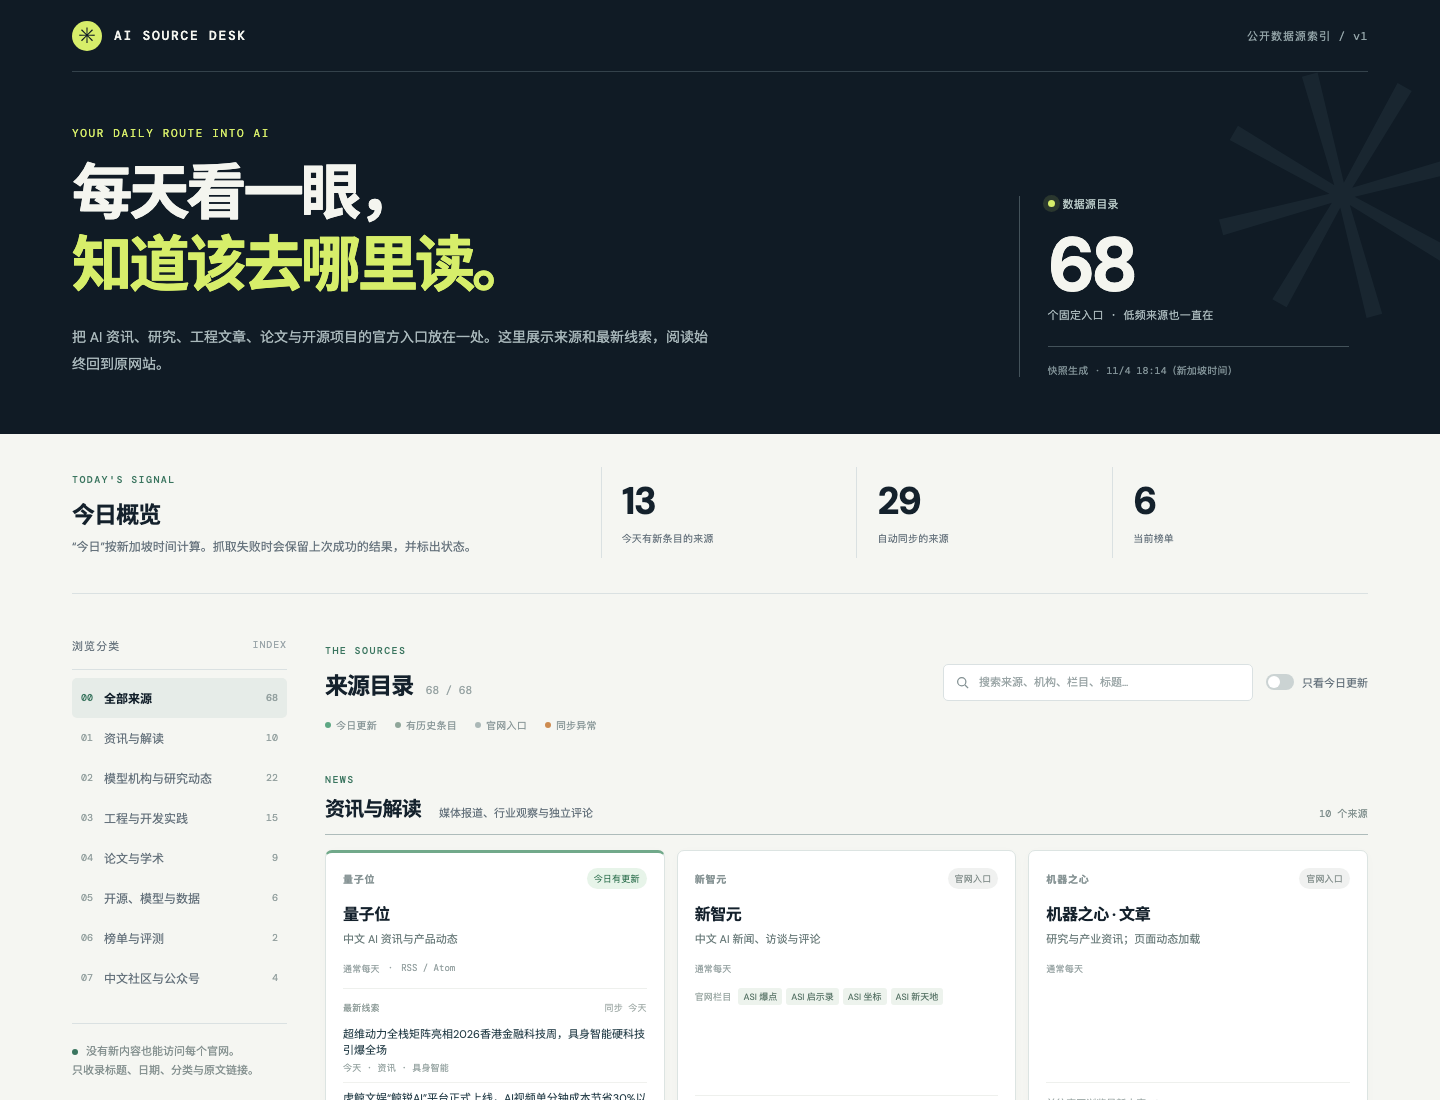
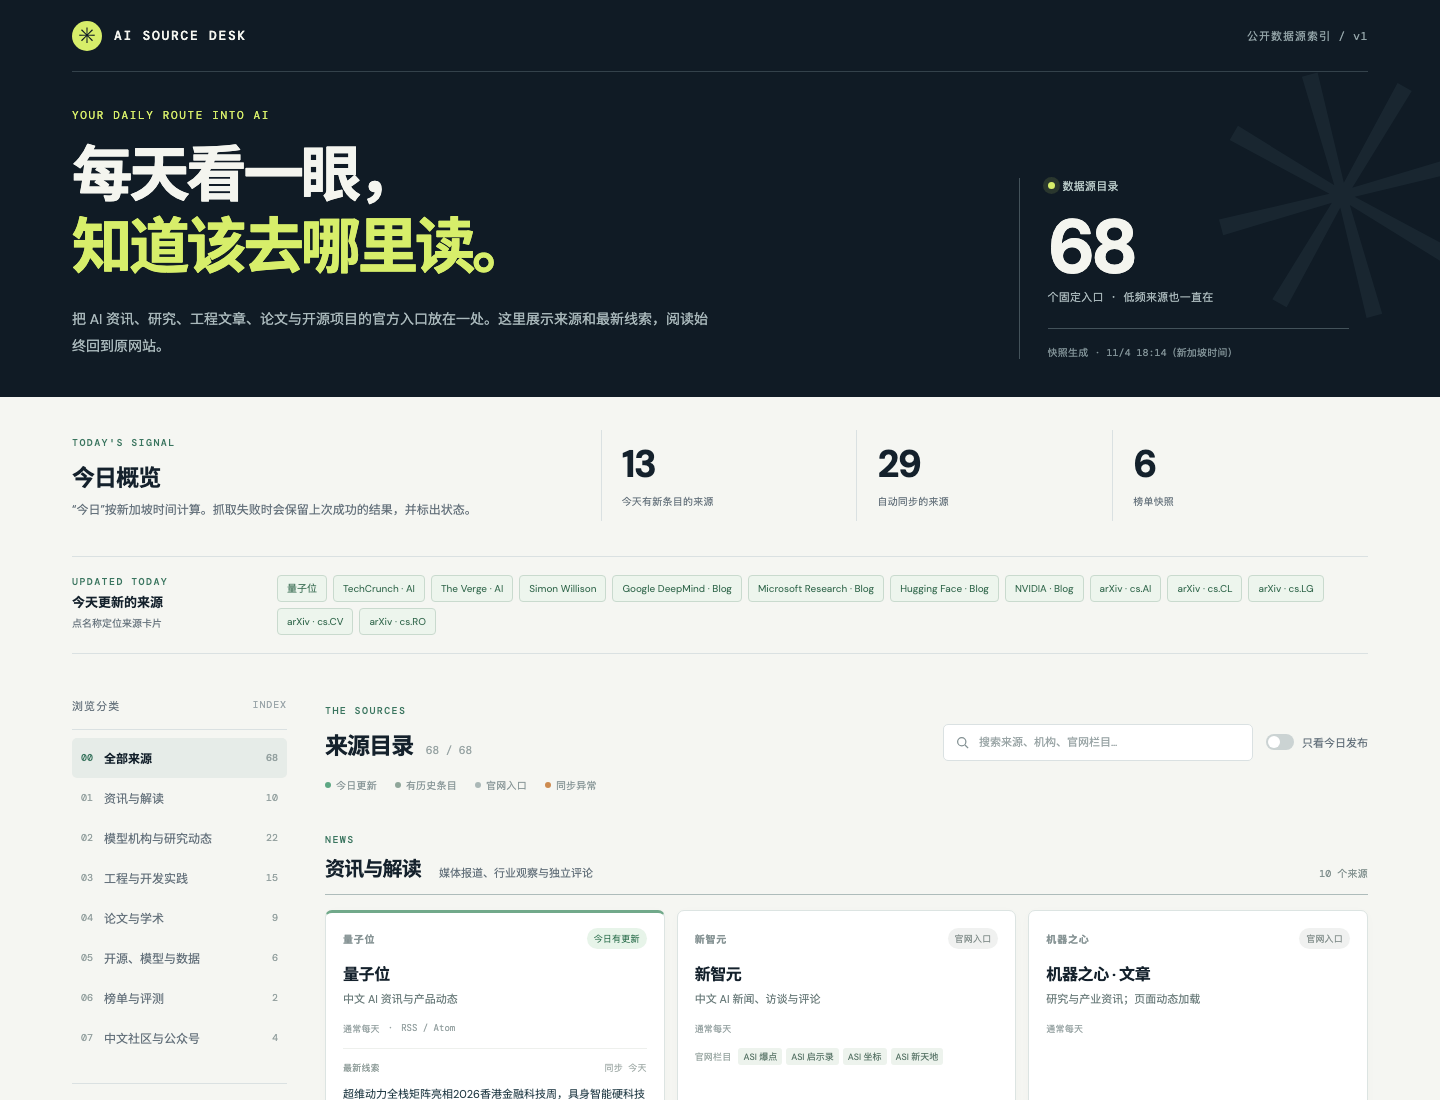
fix: improve daily source navigation and sync clarity

diff --git a/site/assets/app.js b/site/assets/app.js
@@ -25,17 +25,20 @@ const link = (text, href, className = '') => {
 };
 const resultFor = (source) => state.snapshot?.results?.[source.id] || { status: source.mode === 'link' ? 'directory' : 'pending', items: [] };
 const isRanking = (source) => ['github_trending', 'hf_trending', 'papers_trending', 'aa_leaderboard'].includes(source.mode);
+const recentlySynced = (result) => Boolean(result.lastSuccessAt && Date.now() - Date.parse(result.lastSuccessAt) <= 36 * 60 * 60 * 1000);
 const updatedToday = (source) => !isRanking(source) && resultFor(source).status === 'ok' && resultFor(source).items.some((item) => dateKey(item.publishedAt) === today);
 const cadenceLabel = { daily: '通常每天', weekly: '通常每周', monthly: '不定期' };
 
 function sourceCard(source) {
   const result = resultFor(source);
   const fresh = updatedToday(source);
+  const stale = result.status === 'ok' && !recentlySynced(result);
   const card = el('article', `source-card ${fresh ? 'is-fresh' : ''}`);
+  card.id = `source-${source.id}`;
   const top = el('div', 'card-top');
   top.append(el('span', 'org', source.org));
-  const status = el('span', `status ${result.status === 'error' ? 'error' : fresh ? 'fresh' : result.status === 'ok' ? 'recent' : 'manual'}`,
-    result.status === 'error' ? '同步异常' : fresh ? '今日有更新' : result.status === 'ok' ? (isRanking(source) ? '榜单快照' : '有最新条目') : source.mode === 'link' ? '官网入口' : '等待同步');
+  const status = el('span', `status ${result.status === 'error' ? 'error' : stale ? 'stale' : fresh ? 'fresh' : result.status === 'ok' ? 'recent' : 'manual'}`,
+    result.status === 'error' ? '同步异常' : fresh ? '今日有更新' : result.status === 'ok' ? (isRanking(source) ? (recentlySynced(result) ? '当前榜单' : '旧榜单快照') : '有最新条目') : source.mode === 'link' ? '官网入口' : '等待同步');
   top.append(status); card.append(top);
   const title = el('h4'); title.append(link(source.name, source.url)); card.append(title);
   card.append(el('p', 'note', source.note));
@@ -48,7 +51,7 @@ function sourceCard(source) {
     card.append(tags);
   }
   if (result.items?.length) {
-    const heading = el('div', 'item-heading'); heading.append(el('span', '', isRanking(source) ? '当前排名' : '最新线索'));
+    const heading = el('div', 'item-heading'); heading.append(el('span', '', isRanking(source) ? (recentlySynced(result) ? '当前排名' : '上次排名') : '最新线索'));
     if (result.lastSuccessAt) heading.append(el('span', 'item-time', `同步 ${shortDate(result.lastSuccessAt)}`));
     card.append(heading);
     const makeItem = (item, index) => {
@@ -85,7 +88,7 @@ function matches(source) {
   if (state.activeGroup !== 'all' && source.group !== state.activeGroup) return false;
   if (state.todayOnly && !updatedToday(source)) return false;
   if (!state.query) return true;
-  const text = [source.name, source.org, source.note, ...(source.sections || []), ...resultFor(source).items.map((x) => x.title)].join(' ').toLocaleLowerCase();
+  const text = [source.name, source.org, source.note, ...(source.sections || [])].join(' ').toLocaleLowerCase();
   return text.includes(state.query);
 }
 
@@ -101,6 +104,24 @@ function renderNav() {
   });
 }
 
+function renderTodayStrip(sources) {
+  const wrap = $('#todayLinks'); wrap.replaceChildren();
+  const fresh = sources.filter(updatedToday);
+  if (!fresh.length) { wrap.append(el('span', 'today-empty', '今天尚未在已同步来源中发现新条目，所有官网入口仍可访问。')); return; }
+  fresh.forEach((source) => {
+    const button = el('button', 'today-link', source.name);
+    button.type = 'button';
+    button.title = resultFor(source).items.find((item) => dateKey(item.publishedAt) === today)?.title || source.name;
+    button.addEventListener('click', () => {
+      state.activeGroup = 'all'; state.todayOnly = false; state.query = '';
+      $('#todayOnly').checked = false; $('#search').value = '';
+      render();
+      document.getElementById(`source-${source.id}`)?.scrollIntoView({ behavior: 'smooth', block: 'center' });
+    });
+    wrap.append(button);
+  });
+}
+
 function render() {
   if (!state.catalog) return;
   renderNav();
@@ -109,6 +130,10 @@ function render() {
   $('#trackedCount').textContent = sources.filter((x) => x.mode !== 'link').length;
   $('#rankingCount').textContent = sources.filter(isRanking).length;
   $('#updatedCount').textContent = sources.filter(updatedToday).length;
+  renderTodayStrip(sources);
+  const unhealthy = sources.filter((source) => source.mode !== 'link' && (resultFor(source).status !== 'ok' || !recentlySynced(resultFor(source))));
+  const notice = $('#syncNotice'); notice.hidden = unhealthy.length === 0;
+  if (unhealthy.length) notice.textContent = `${unhealthy.length} 个自动来源近期未成功同步。页面保留上次结果及官网入口，最新内容请以官网为准。`;
   const visible = sources.filter(matches); $('#visibleCount').textContent = `${visible.length} / ${sources.length}`;
   $('#syncTime').textContent = state.snapshot?.generatedAt ? `快照生成 · ${new Intl.DateTimeFormat('zh-CN', { timeZone: tz, month: 'numeric', day: 'numeric', hour: '2-digit', minute: '2-digit' }).format(new Date(state.snapshot.generatedAt))}（新加坡时间）` : '等候首次自动同步';
   const container = $('#sections'); container.replaceChildren();
@@ -121,7 +146,7 @@ function render() {
     section.append(heading);
     const grid = el('div', 'card-grid'); entries.forEach((source) => grid.append(sourceCard(source))); section.append(grid); container.append(section);
   }
-  if (!visible.length) container.append(el('div', 'empty', '没有匹配的来源。清除搜索或关闭“只看今日更新”即可浏览全部入口。'));
+  if (!visible.length) container.append(el('div', 'empty', '没有匹配的来源。清除搜索或关闭“只看今日发布”即可浏览全部入口。'));
 }
 
 async function init() {

diff --git a/site/index.html b/site/index.html
@@ -28,13 +28,16 @@
       <div class="summary-lead"><span class="section-kicker">TODAY'S SIGNAL</span><h2>今日概览</h2><p>“今日”按新加坡时间计算。抓取失败时会保留上次成功的结果，并标出状态。</p></div>
       <div class="metric"><strong id="updatedCount">—</strong><span>今天有新条目的来源</span></div>
       <div class="metric"><strong id="trackedCount">—</strong><span>自动同步的来源</span></div>
-      <div class="metric"><strong id="rankingCount">—</strong><span>当前榜单</span></div>
+      <div class="metric"><strong id="rankingCount">—</strong><span>榜单快照</span></div>
     </section>
+
+    <section class="today-strip" aria-label="今日更新来源"><div class="today-strip-head"><span class="section-kicker">UPDATED TODAY</span><strong>今天更新的来源</strong><span>点名称定位来源卡片</span></div><div class="today-links" id="todayLinks"></div></section>
+    <div class="sync-notice" id="syncNotice" role="status" hidden></div>
 
     <div class="workspace">
       <aside class="sidebar" aria-label="分类导航"><div class="sidebar-title">浏览分类 <span>INDEX</span></div><nav id="groupNav"></nav><div class="sidebar-note"><span class="tiny-dot"></span> 没有新内容也能访问每个官网。<br>只收录标题、日期、分类与原文链接。</div></aside>
       <div class="main-panel">
-        <div class="toolbar"><div class="toolbar-title"><span class="section-kicker">THE SOURCES</span><h2>来源目录 <span id="visibleCount"></span></h2></div><div class="controls"><label class="search-wrap"><span class="sr-only">搜索来源</span><svg viewBox="0 0 24 24" aria-hidden="true"><circle cx="10.8" cy="10.8" r="6.6"></circle><path d="m16 16 5 5"></path></svg><input id="search" type="search" placeholder="搜索来源、机构、栏目、标题…"></label><label class="today-switch"><input id="todayOnly" type="checkbox"><span class="switch-track"></span>只看今日更新</label></div></div>
+        <div class="toolbar"><div class="toolbar-title"><span class="section-kicker">THE SOURCES</span><h2>来源目录 <span id="visibleCount"></span></h2></div><div class="controls"><label class="search-wrap"><span class="sr-only">搜索来源</span><svg viewBox="0 0 24 24" aria-hidden="true"><circle cx="10.8" cy="10.8" r="6.6"></circle><path d="m16 16 5 5"></path></svg><input id="search" type="search" placeholder="搜索来源、机构、官网栏目…"></label><label class="today-switch"><input id="todayOnly" type="checkbox"><span class="switch-track"></span>只看今日发布</label></div></div>
         <div class="legend"><span><i class="dot fresh"></i> 今日更新</span><span><i class="dot recent"></i> 有历史条目</span><span><i class="dot manual"></i> 官网入口</span><span><i class="dot error"></i> 同步异常</span></div>
         <div id="sections" aria-live="polite"><div class="loading">正在整理数据源…</div></div>
       </div>

diff --git a/site/assets/style.css b/site/assets/style.css
@@ -13,3 +13,7 @@ footer{background:#e9eeea;border-top:1px solid #d7dfd9;padding:28px max(5vw,24px
 @media(prefers-reduced-motion:reduce){html{scroll-behavior:auto}.source-card,.switch-track,.switch-track:before{transition:none}}
 .more-ranks{margin:-5px 0 10px}.more-ranks summary{color:#3d8260;font-size:10px;cursor:pointer;list-style:none}.more-ranks summary::-webkit-details-marker{display:none}.more-ranks summary:after{content:' ＋'}.more-ranks[open] summary:after{content:' −'}.more-ranks .item-list{margin-top:7px}
 @media(max-width:560px){.summary{grid-template-columns:repeat(3,minmax(0,1fr))}.summary-lead,.metric{min-width:0}.summary-lead{padding-right:0}.summary p,.summary .metric span{overflow-wrap:anywhere}.metric{padding-left:6px;padding-right:6px}}
+.hero-body{min-height:285px;padding-top:36px;padding-bottom:38px}
+.status.stale{color:#96521a;background:#fbecdc}
+.today-strip{display:grid;grid-template-columns:185px minmax(0,1fr);gap:20px;border-bottom:1px solid var(--line);padding:18px 0}.today-strip-head{display:flex;flex-direction:column;gap:4px}.today-strip-head strong{font-size:13px}.today-strip-head>span:last-child{font-size:10px;color:var(--muted)}.today-links{display:flex;align-items:center;align-content:center;flex-wrap:wrap;gap:6px}.today-link{border:1px solid #c9dace;background:#edf5ed;color:#34694e;border-radius:4px;padding:6px 9px;font-size:10px;line-height:1.3}.today-link:hover{background:#dcefe1;border-color:#88b797}.today-empty{font-size:11px;color:var(--muted)}.source-card{scroll-margin-top:20px}.sync-notice{background:#fcf2e5;border:1px solid #efd7b9;color:#8b5a2b;padding:11px 14px;border-radius:5px;margin-top:14px;font-size:11px}.sync-notice[hidden]{display:none}
+@media(max-width:760px){.hero-body{min-height:0;padding-top:28px;padding-bottom:30px}.today-strip{grid-template-columns:1fr;gap:10px}.today-strip-head{flex-direction:row;flex-wrap:wrap;align-items:baseline;gap:8px}.today-strip-head>span:last-child{margin-left:auto}}

diff --git a/README.md b/README.md
@@ -8,7 +8,7 @@
 
 ## 设计原则
 
-- **固定目录**：低频来源、暂无可靠自动列表的官网和公众号入口都保留卡片。默认展示全部来源；“只看今日更新”是临时筛选。
+- **固定目录**：低频来源、暂无可靠自动列表的官网和公众号入口都保留卡片。默认展示全部来源；“只看今日发布”是临时筛选。
 - **真实线索**：只展示来源名、标题、日期、官网分类和链接。不复制文章、不做自动摘要或主观推荐。
 - **明确状态**：`官网入口` 表示仅导航；`等待同步` 表示尚未首次抓取；`同步异常` 表示本轮失败，历史抓取结果仍可见；`今日更新` 根据文章日期和新加坡时间判断。
 - **榜单快照**：GitHub Trending 展示当前仓库顺序，绝不把上榜理解为今天创建。其他榜单如无法稳定获取结构化排名，先保留官网入口。
